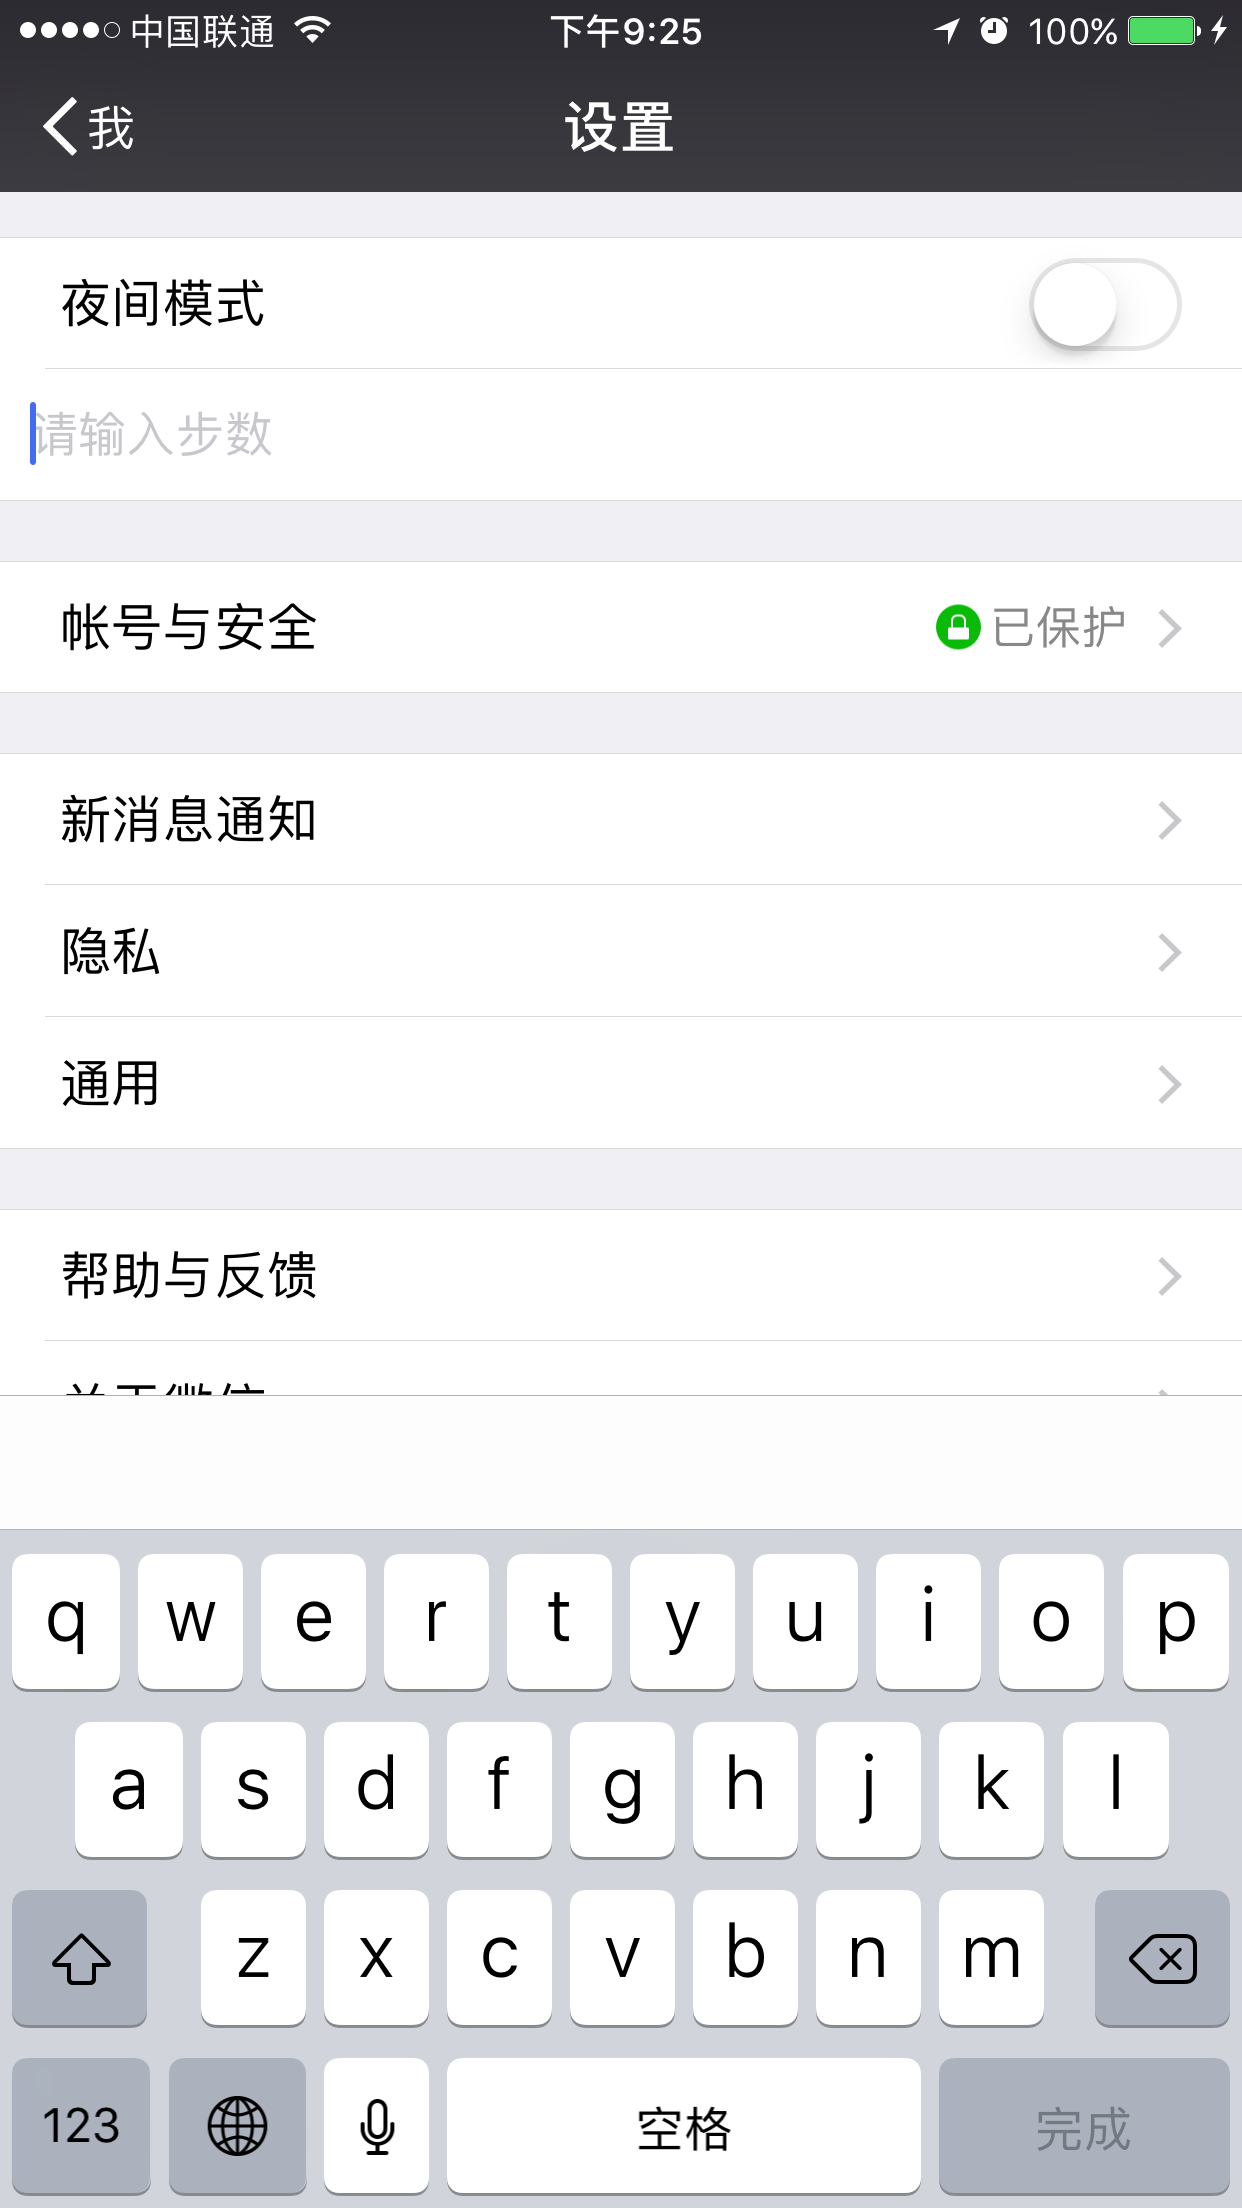
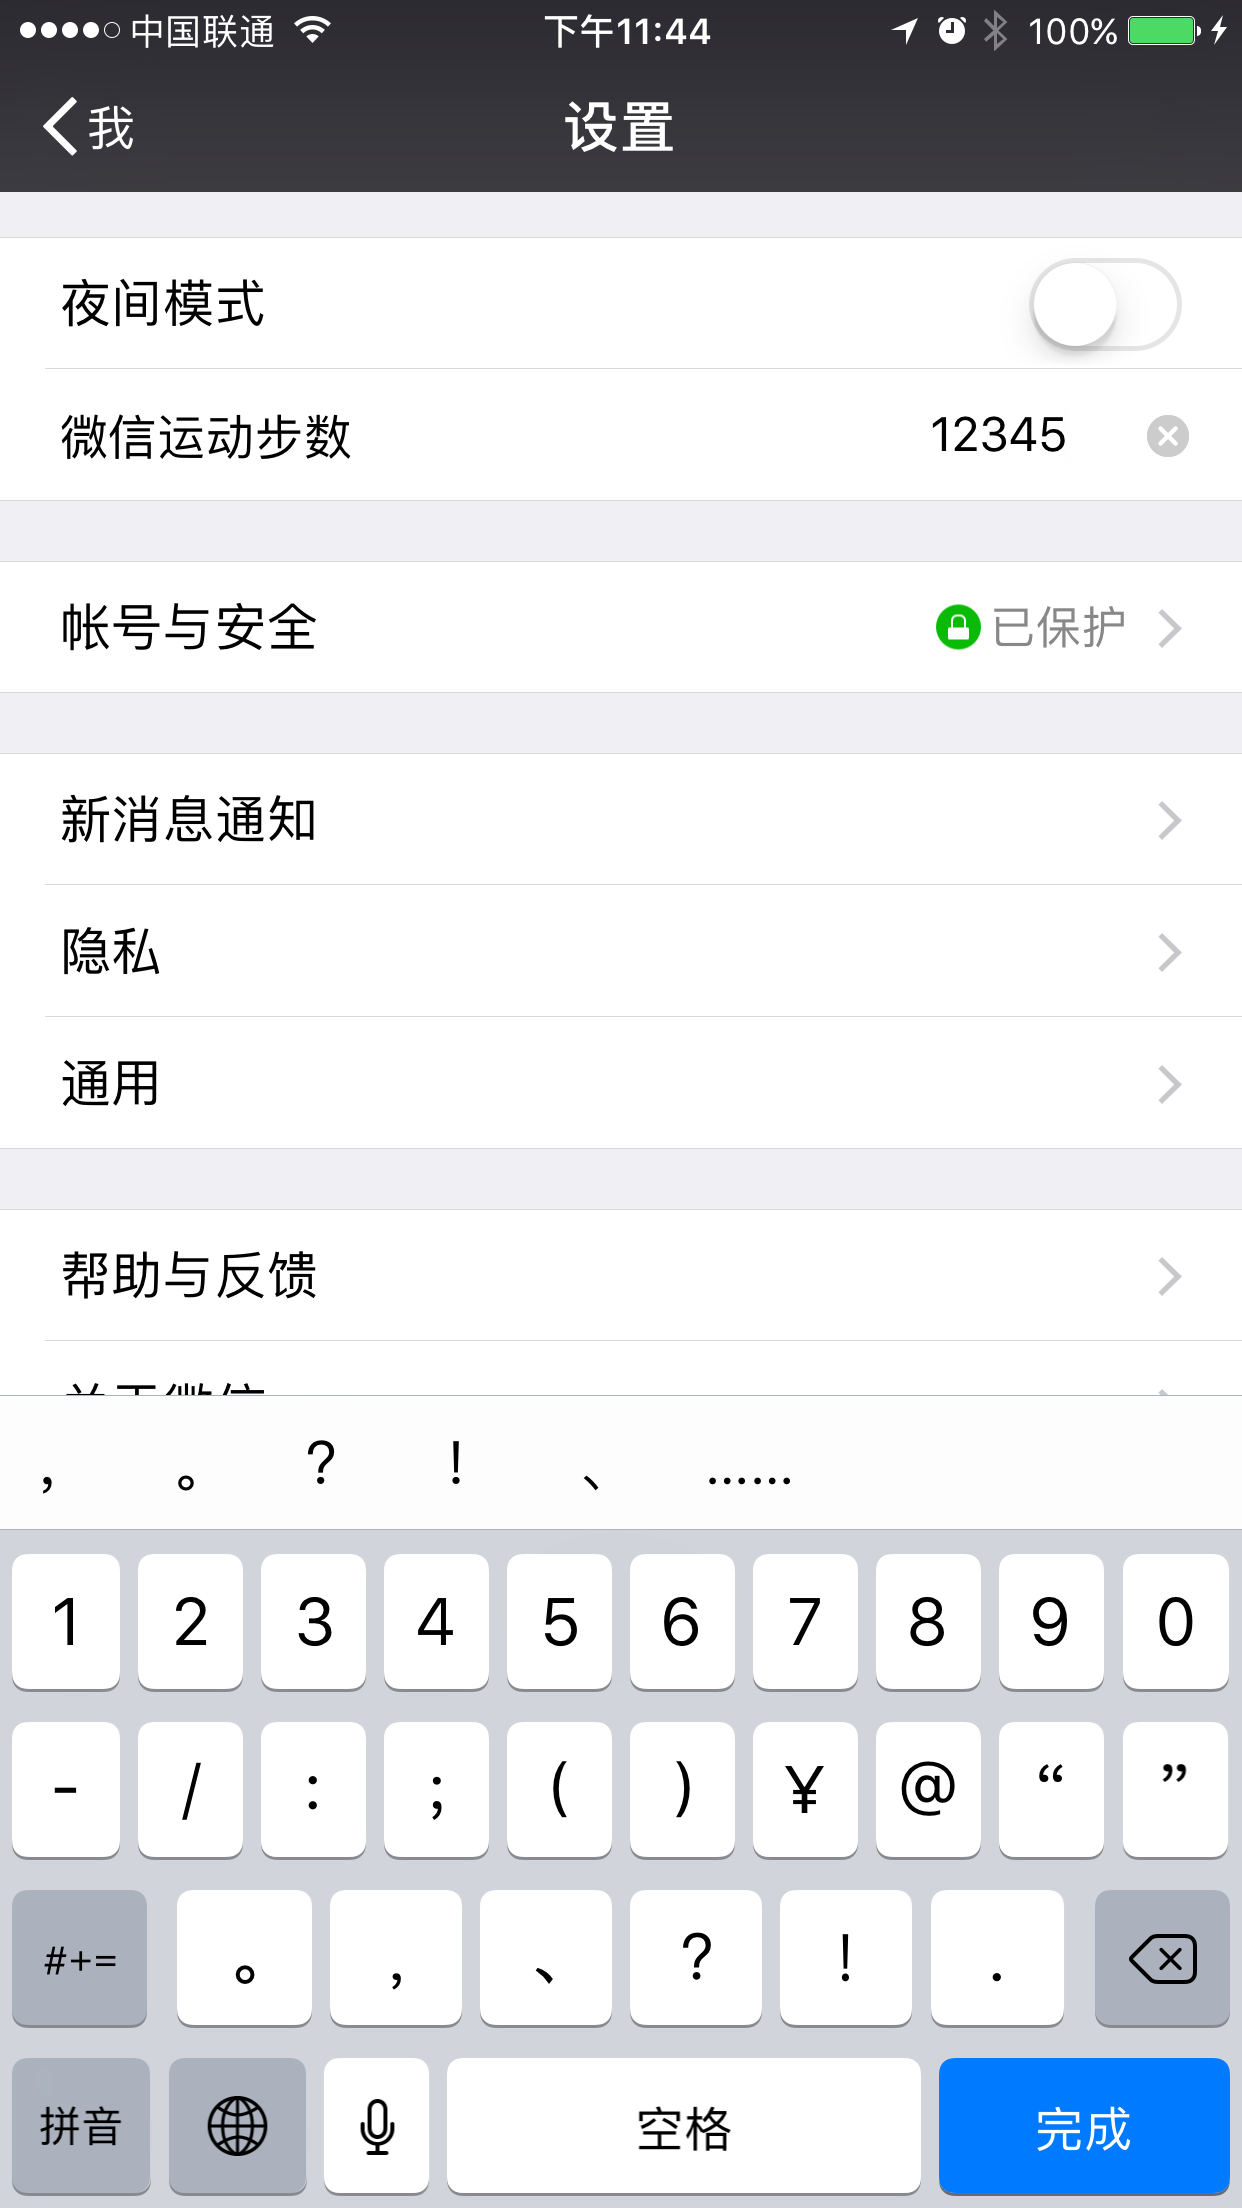
You can ignore messages

diff --git a/FishChat/FishChat.mm b/FishChat/FishChat.mm
@@ -22,6 +22,7 @@
 //   5. (optionally) call old method using CHSuper()
 
 #define CYCRIPT_PORT 8888
+#define FishConfigurationCenterKey @"FishConfigurationCenterKey"
 
 CHDeclareClass(UIApplication)
 CHDeclareClass(MicroMessengerAppDelegate)
@@ -39,14 +40,29 @@ CHDeclareClass(MMTableViewCellInfo)
 CHDeclareClass(MMTableView)
 CHDeclareClass(UIViewController)
 CHDeclareClass(UILabel)
+CHDeclareClass(ChatRoomInfoViewController)
 
-// 监听 Cycript 8888 端口
 CHOptimizedMethod2(self, void, MicroMessengerAppDelegate, application, UIApplication *, application, didFinishLaunchingWithOptions, NSDictionary *, options)
 {
     CHSuper2(MicroMessengerAppDelegate, application, application, didFinishLaunchingWithOptions, options);
     
+    // 监听 Cycript 8888 端口
     NSLog(@"## Start Cycript ##");
     CYListenServer(CYCRIPT_PORT);
+    
+    NSLog(@"## Load FishConfigurationCenter ##");
+    NSData *centerData = [[NSUserDefaults standardUserDefaults] objectForKey:FishConfigurationCenterKey];
+    if (centerData) {
+        FishConfigurationCenter *center = [NSKeyedUnarchiver unarchiveObjectWithData:centerData];
+        [FishConfigurationCenter loadInstance:center];
+    }
+}
+
+CHDeclareMethod1(void, MicroMessengerAppDelegate, applicationWillResignActive, UIApplication *, application)
+{
+    NSData *centerData = [NSKeyedArchiver archivedDataWithRootObject:[FishConfigurationCenter sharedInstance]];
+    [[NSUserDefaults standardUserDefaults] setObject:centerData forKey:FishConfigurationCenterKey];
+    [[NSUserDefaults standardUserDefaults] synchronize];
 }
 
 // 阻止撤回消息
@@ -64,6 +80,81 @@ CHDeclareMethod3(void, CMessageMgr, DelMsg, id, arg1, MsgList, id, arg2, DelAll,
     else {
         CHSuper3(CMessageMgr, DelMsg, arg1, MsgList, arg2, DelAll, arg3);
     }
+}
+
+// 屏蔽消息
+
+CHDeclareMethod1(void, ChatRoomInfoViewController, viewDidAppear, BOOL, animated)
+{
+    CHSuper1(ChatRoomInfoViewController, viewDidAppear, animated);
+    NSString *userName = [self valueForKeyPath:@"m_chatRoomContact.m_nsUsrName"];
+    [FishConfigurationCenter sharedInstance].currentUserName = userName;
+}
+
+CHDeclareClass(BaseMsgContentViewController)
+CHDeclareMethod0(void, BaseMsgContentViewController, viewDidLoad)
+{
+    CHSuper0(BaseMsgContentViewController, viewDidLoad);
+    id contact = [self GetContact];
+    [FishConfigurationCenter sharedInstance].currentUserName = [contact valueForKey:@"m_nsUsrName"];
+}
+
+CHDeclareMethod0(void, ChatRoomInfoViewController, reloadTableData)
+{
+    CHSuper0(ChatRoomInfoViewController, reloadTableData);
+    NSString *userName = [self valueForKeyPath:@"m_chatRoomContact.m_nsUsrName"];
+    MMTableViewInfo *tableInfo = [self valueForKeyPath:@"m_tableViewInfo"];
+    MMTableViewSectionInfo *sectionInfo = [tableInfo getSectionAt:2];
+    MMTableViewCellInfo *ignoreCellInfo = [objc_getClass("MMTableViewCellInfo") switchCellForSel:@selector(handleIgnoreChatRoom:) target:[FishConfigurationCenter sharedInstance] title:@"屏蔽群消息" on:[FishConfigurationCenter sharedInstance].chatIgnoreInfo[userName].boolValue];
+    [sectionInfo addCell:ignoreCellInfo];
+    MMTableView *tableView = [tableInfo getTableView];
+    [tableView reloadData];
+}
+
+CHDeclareClass(AddContactToChatRoomViewController)
+
+CHDeclareMethod0(void, AddContactToChatRoomViewController, reloadTableData)
+{
+    CHSuper0(AddContactToChatRoomViewController, reloadTableData);
+    NSString *userName = [FishConfigurationCenter sharedInstance].currentUserName;
+    MMTableViewInfo *tableInfo = [self valueForKeyPath:@"m_tableViewInfo"];
+    MMTableViewSectionInfo *sectionInfo = [tableInfo getSectionAt:1];
+    MMTableViewCellInfo *ignoreCellInfo = [objc_getClass("MMTableViewCellInfo") switchCellForSel:@selector(handleIgnoreChatRoom:) target:[FishConfigurationCenter sharedInstance] title:@"屏蔽此傻逼" on:[FishConfigurationCenter sharedInstance].chatIgnoreInfo[userName].boolValue];
+    [sectionInfo addCell:ignoreCellInfo];
+    MMTableView *tableView = [tableInfo getTableView];
+    [tableView reloadData];
+}
+
+CHDeclareMethod6(id, CMessageMgr, GetMsgByCreateTime, id, arg1, FromID, unsigned int, arg2, FromCreateTime, unsigned int, arg3, Limit, unsigned int, arg4, LeftCount, unsigned int*, arg5, FromSequence, unsigned int, arg6)
+{
+    NSLog(@"GetMsgByCreateTime:%@ FromID:%d FromCreateTime:%d Limit:%d FromSequence:%d",arg1,arg2,arg3,arg4,arg6);
+    id result = CHSuper6(CMessageMgr, GetMsgByCreateTime, arg1, FromID, arg2, FromCreateTime, arg3, Limit, arg4, LeftCount, arg5, FromSequence, arg6);
+    if ([FishConfigurationCenter sharedInstance].chatIgnoreInfo[arg1].boolValue) {
+        return @[];
+    }
+    return result;
+}
+
+//CHDeclareMethod2(id, CMessageMgr, GetMsg, id, arg1, LocalID, unsigned int, arg2)
+//{
+//    NSLog(@"GetMsg:%@ LocalID:%d",arg1,arg2);
+//    NSLog(@"originalIMP:%p",$CMessageMgr_GetMsg$LocalID$_super);
+//    NSLog(@"%@",[NSThread callStackSymbols]);
+//    return CHSuper2(CMessageMgr, GetMsg, arg1, LocalID, arg2);
+//}
+
+CHDeclareClass(MsgHelper)
+CHDeclareClassMethod7(BOOL, MsgHelper, AddMessageToDB, id, arg1, MsgWrap, id, arg2, Des, unsigned int, arg3, DB, id, arg4, Lock, id, arg5, GetChangeDisplay, BOOL *, arg6, InsertNew, BOOL *, arg7)
+{
+    Ivar nsFromUsrIvar = class_getInstanceVariable(objc_getClass("CMessageWrap"), "m_nsFromUsr");
+    NSString *m_nsFromUsr = object_getIvar(arg2, nsFromUsrIvar);
+    BOOL result = !([FishConfigurationCenter sharedInstance].chatIgnoreInfo[m_nsFromUsr].boolValue);
+    if (result) {
+        CHSuper7(MsgHelper, AddMessageToDB, arg1, MsgWrap, arg2, Des, arg3, DB, arg4, Lock, arg5, GetChangeDisplay, arg6, InsertNew, arg7);
+    }
+    *arg6 = result;
+    *arg7 = result;
+    return result;
 }
 
 // 关闭朋友圈入口
@@ -148,13 +239,13 @@ CHDeclareMethod0(void, NewSettingViewController, reloadTableData)
     MMTableViewSectionInfo *sectionInfo = [objc_getClass("MMTableViewSectionInfo") sectionInfoDefaut];
     MMTableViewCellInfo *nightCellInfo = [objc_getClass("MMTableViewCellInfo") switchCellForSel:@selector(handleNightMode:) target:[FishConfigurationCenter sharedInstance] title:@"夜间模式" on:[FishConfigurationCenter sharedInstance].isNightMode];
     [sectionInfo addCell:nightCellInfo];
-    MMTableViewCellInfo *stepcountCellInfo = [objc_getClass("MMTableViewCellInfo") editorCellForSel:@selector(handleStepCount:) target:[FishConfigurationCenter sharedInstance] tip:@"请输入步数" focus:NO text:[NSString stringWithFormat:@"%ld", (long)[FishConfigurationCenter sharedInstance].stepCount]];
+    MMTableViewCellInfo *stepcountCellInfo = [objc_getClass("MMTableViewCellInfo") editorCellForSel:@selector(handleStepCount:) target:[FishConfigurationCenter sharedInstance] title:@"微信运动步数" margin:300.0 tip:@"请输入步数" focus:NO text:[NSString stringWithFormat:@"%ld", (long)[FishConfigurationCenter sharedInstance].stepCount]];
     [sectionInfo addCell:stepcountCellInfo];
     [tableInfo insertSection:sectionInfo At:0];
     MMTableView *tableView = [tableInfo getTableView];
     [tableView reloadData];
 }
-
+//+ (id)editorCellForSel:(SEL)arg1 target:(id)arg2 title:(id)arg3 margin:(double)arg4 tip:(id)arg5 focus:(_Bool)arg6 text:(id)arg7;
 // 夜间模式
 
 #define UIColorFromRGB(rgbValue) \

diff --git a/FishChat/FishConfigurationCenter.m b/FishChat/FishConfigurationCenter.m
@@ -10,8 +10,19 @@
 
 @implementation FishConfigurationCenter
 
+- (instancetype)init
+{
+    self = [super init];
+    if (self) {
+        self.chatIgnoreInfo = [NSMutableDictionary dictionary];
+    }
+    return self;
+}
+
 - (void)dealloc
 {
+    [_chatIgnoreInfo release];
+    [_currentUserName release];
     [super dealloc];
 }
 
@@ -25,6 +36,18 @@
     return _instance;
 }
 
++ (void)loadInstance:(FishConfigurationCenter *)instance
+{
+    FishConfigurationCenter *center = [self sharedInstance];
+    center.nightMode = instance.isNightMode;
+    center.stepCount = instance.stepCount;
+    center.revokeMsg = instance.onRevokeMsg;
+    center.chatIgnoreInfo = instance.chatIgnoreInfo;
+    center.currentUserName = instance.currentUserName;
+}
+
+#pragma mark - Handle Events
+
 - (void)handleNightMode:(UISwitch *)sender
 {
     self.nightMode = sender.isOn;
@@ -36,6 +59,11 @@
     self.stepCount = sender.text.integerValue;
 }
 
+- (void)handleIgnoreChatRoom:(UISwitch *)sender
+{
+    self.chatIgnoreInfo[self.currentUserName] = @(sender.isOn);
+}
+
 - (UIViewController *)viewControllerOfResponder:(UIResponder *)responder
 {
     UIResponder *current = responder;
@@ -43,6 +71,29 @@
         current = [current nextResponder];
     }
     return (UIViewController *)current;
+}
+
+#pragma mark - NSCoding
+
+- (void)encodeWithCoder:(NSCoder *)aCoder
+{
+    [aCoder encodeBool:self.nightMode forKey:@"nightMode"];
+    [aCoder encodeInteger:self.stepCount forKey:@"stepCount"];
+    [aCoder encodeBool:self.revokeMsg forKey:@"revokeMsg"];
+    [aCoder encodeObject:self.chatIgnoreInfo forKey:@"chatIgnoreInfo"];
+    [aCoder encodeObject:self.currentUserName forKey:@"currentUserName"];
+}
+
+- (instancetype)initWithCoder:(NSCoder *)aDecoder
+{
+    if (self = [super init]) {
+        self.nightMode = [aDecoder decodeBoolForKey:@"nightMode"];
+        self.stepCount = [aDecoder decodeIntegerForKey:@"stepCount"];
+        self.revokeMsg = [aDecoder decodeBoolForKey:@"revokeMsg"];
+        self.chatIgnoreInfo = [aDecoder decodeObjectOfClass:NSDictionary.class forKey:@"chatIgnoreInfo"];
+        self.currentUserName = [aDecoder decodeObjectOfClass:NSString.class forKey:@"currentUserName"];
+    }
+    return self;
 }
 
 @end

diff --git a/FishChat/FishConfigurationCenter.h b/FishChat/FishConfigurationCenter.h
@@ -8,15 +8,19 @@
 
 #import <UIKit/UIKit.h>
 
-@interface FishConfigurationCenter : NSObject
+@interface FishConfigurationCenter : NSObject <NSCoding>
 
 @property (nonatomic, getter = isNightMode) BOOL nightMode;
 @property (nonatomic) NSInteger stepCount;
 @property (nonatomic, getter=onRevokeMsg) BOOL revokeMsg;
+@property (nonatomic, retain) NSMutableDictionary<NSString *,NSNumber *> *chatIgnoreInfo;
+@property (nonatomic, copy) NSString *currentUserName;
 
 + (instancetype)sharedInstance;
++ (void)loadInstance:(FishConfigurationCenter *)instance;
 
 - (void)handleNightMode:(UISwitch *)sender;
 - (void)handleStepCount:(UITextField *)sender;
+- (void)handleIgnoreChatRoom:(UISwitch *)sender;
 
 @end

diff --git a/README.md b/README.md
@@ -4,6 +4,7 @@ Hook WeChat.app on non-jailbroken devices.
 
 ## Futures
 
+- [x] 屏蔽群消息，好友消息（对方无察觉）
 - [x] 关闭『发现』页面的『朋友圈』、『购物』和『游戏』入口
 - [x] 修改微信运动步数
 - [x] 去除各种小红点提示
@@ -14,7 +15,13 @@ Hook WeChat.app on non-jailbroken devices.
 
 [Make WeChat Great Again](http://yulingtianxia.com/blog/2017/02/28/Make-WeChat-Great-Again/)
 
+<!--[如何在逆向工程中 Hook 得更准 - 微信屏蔽好友&群消息实战](http://yulingtianxia.com/blog/2017/03/06/How-to-hook-the-correct-method-in-reverse-engineering)-->
+
 ## Screenshots
+
+![](Images/weichat_ignore_chatroom.PNG)
+
+![](Images/wechat_ignore_somone.PNG)
 
 ![](Images/wechat_setting_keyboard.PNG)
 
